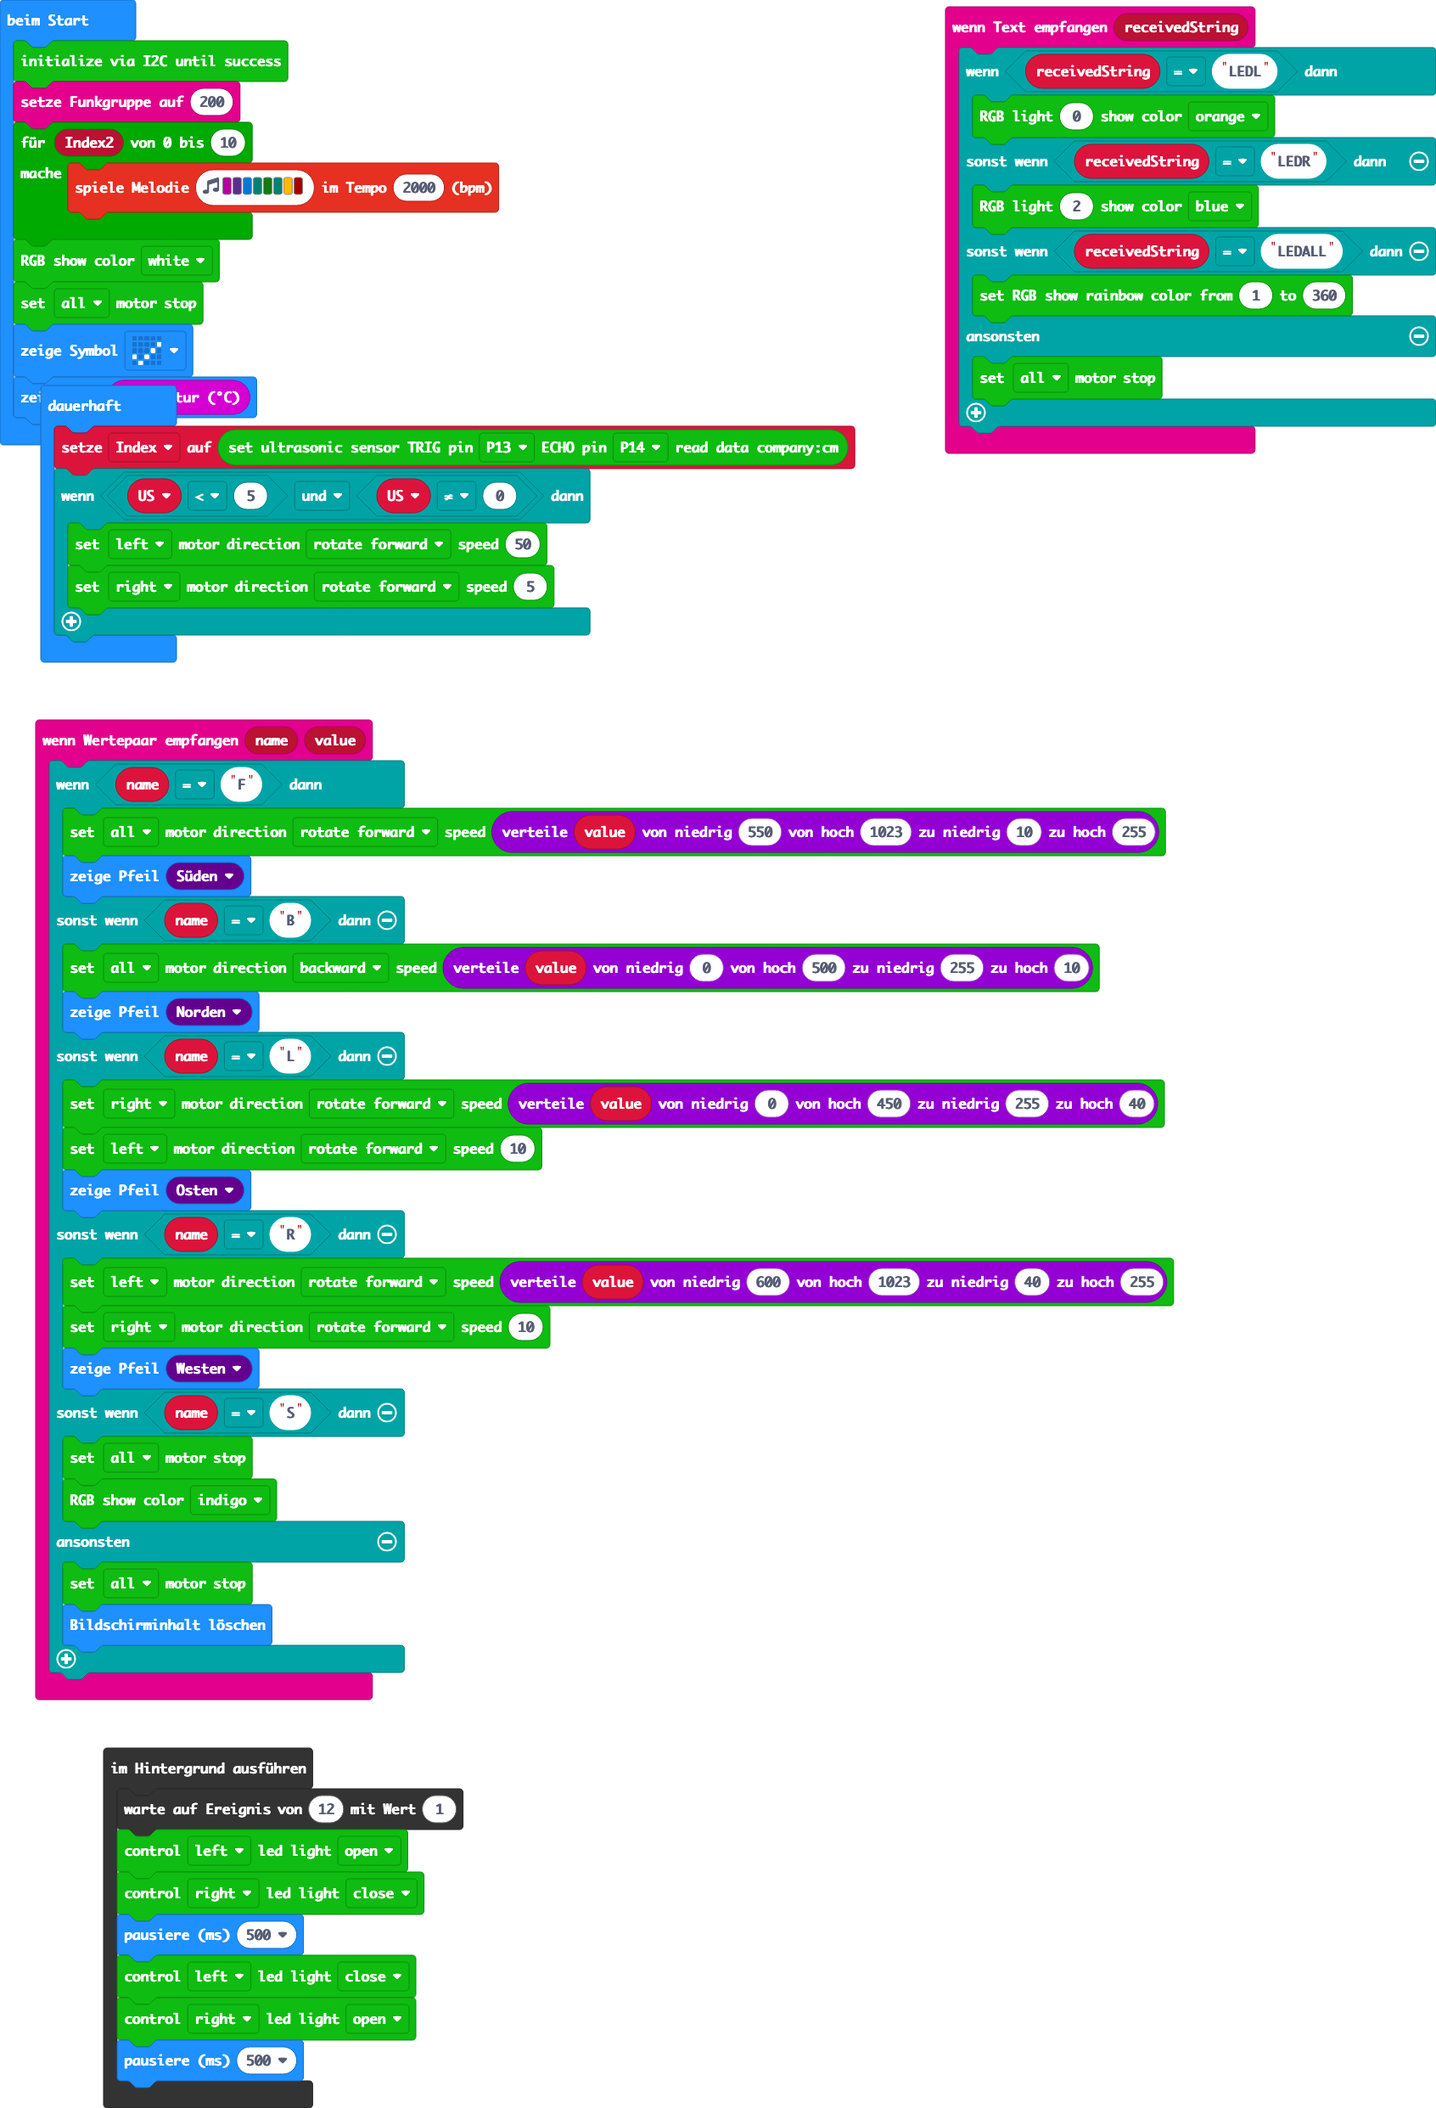
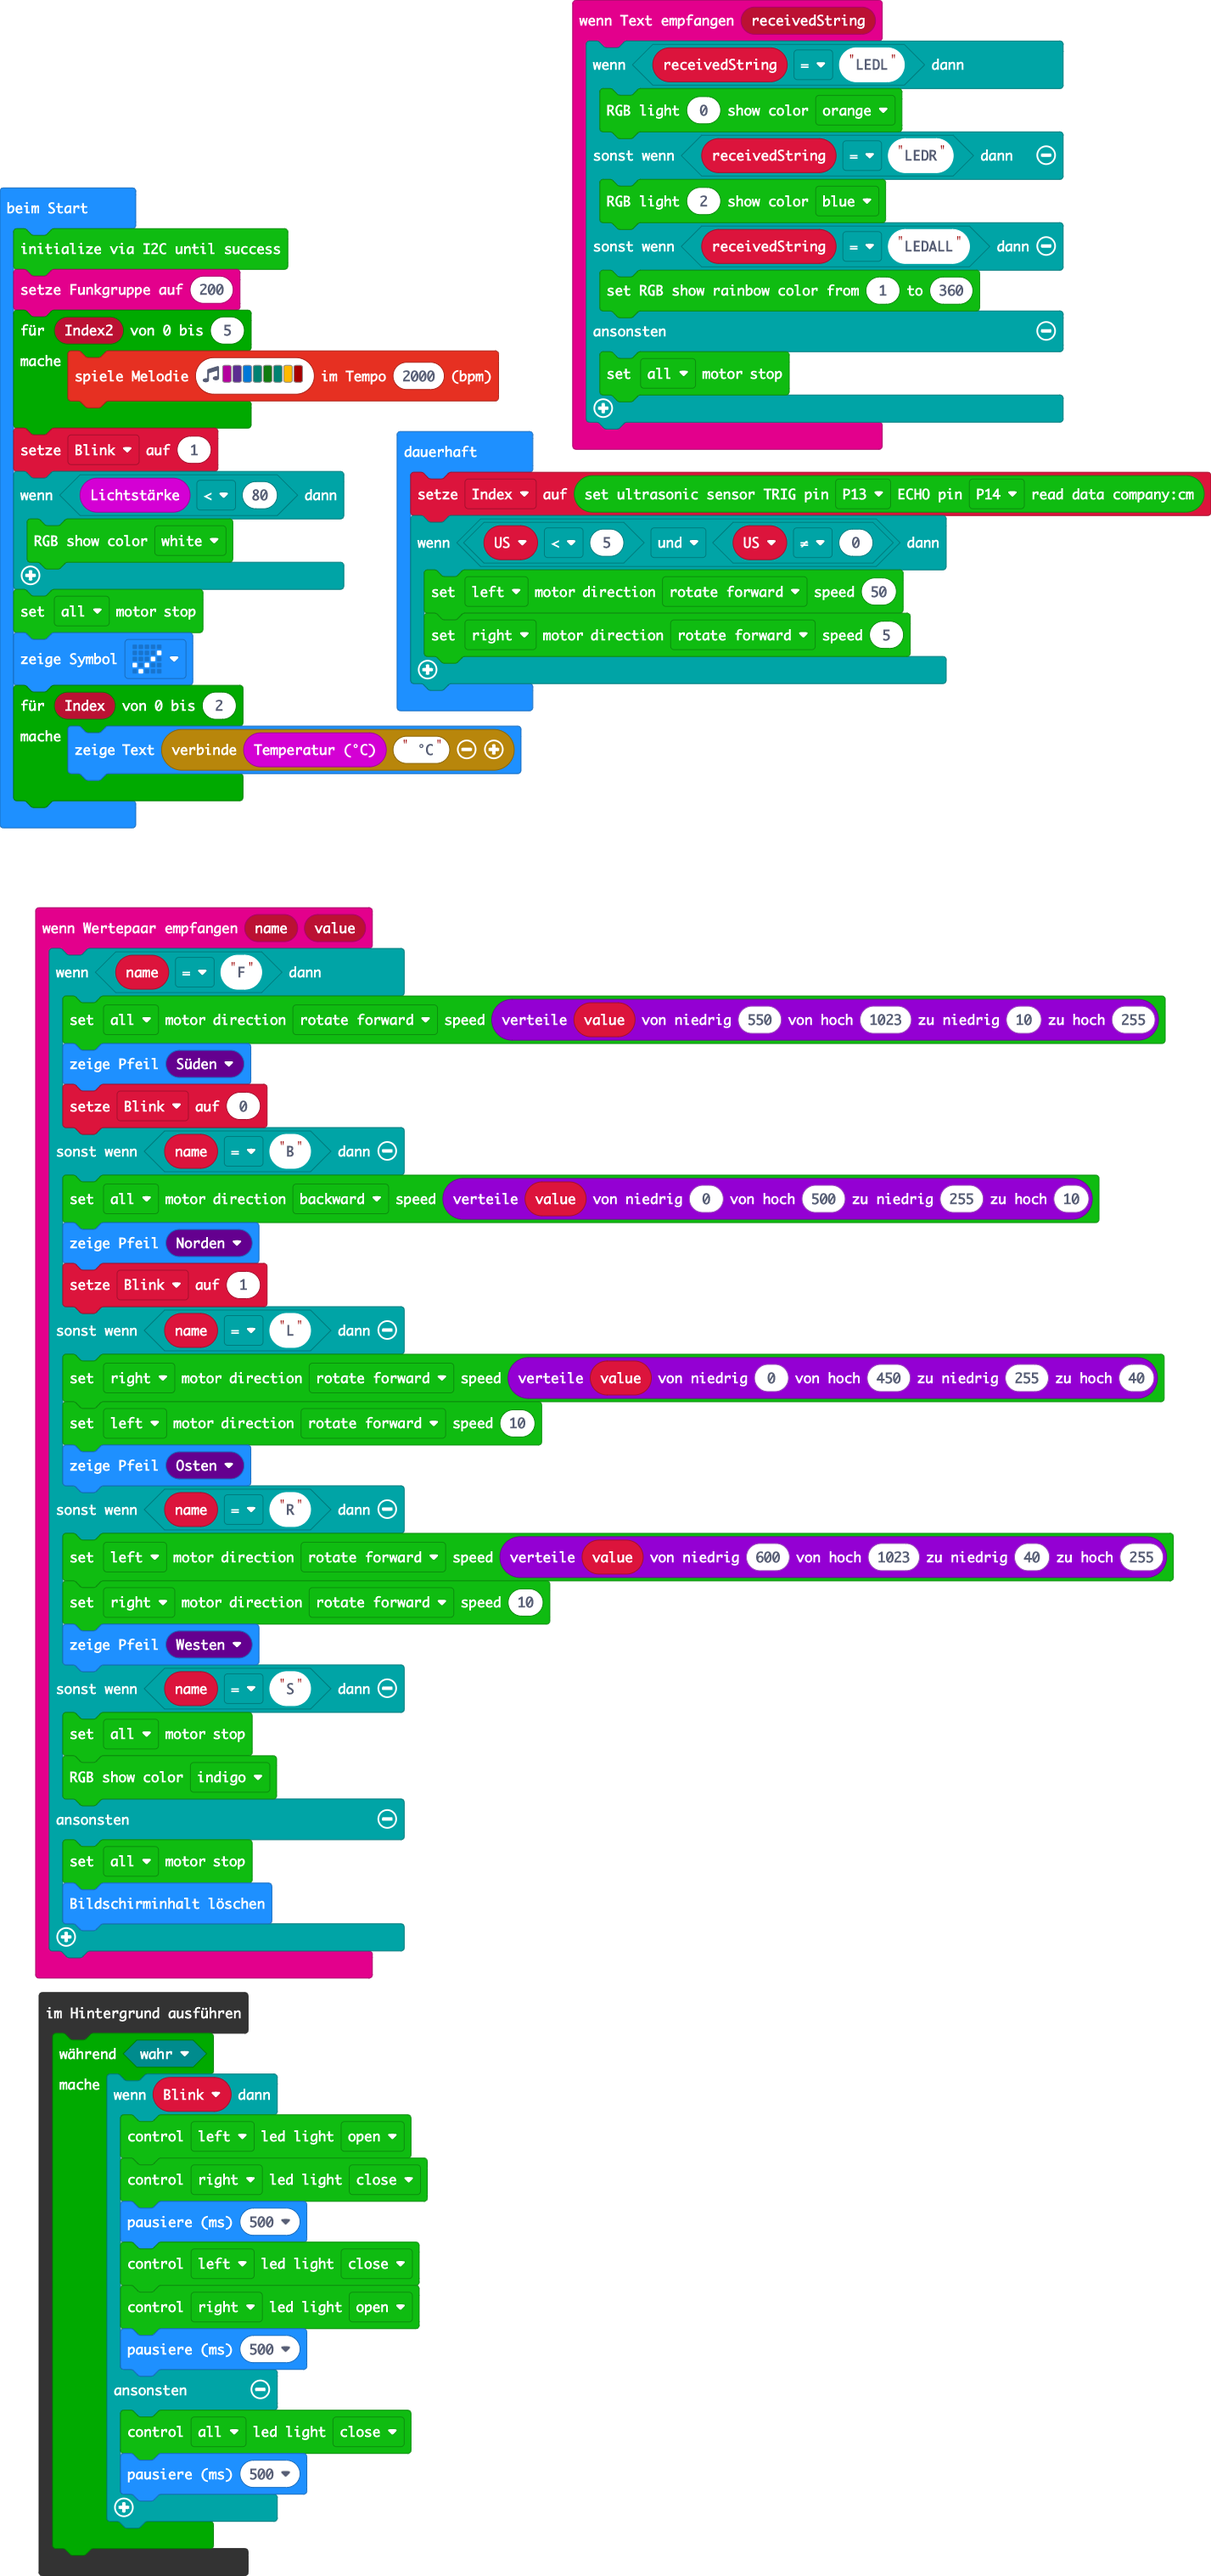
Aktualisiere pxt.json, main.blocks, main.ts, main.py

diff --git a/main.ts b/main.ts
@@ -13,9 +13,11 @@ radio.onReceivedValue(function (name, value) {
     if (name == "F") {
         DFRobotMaqueenPlusV2.controlMotor(MyEnumMotor.eAllMotor, MyEnumDir.eForward, Math.map(value, 550, 1023, 10, 255))
         basic.showArrow(ArrowNames.South)
+        Blink = 0
     } else if (name == "B") {
         DFRobotMaqueenPlusV2.controlMotor(MyEnumMotor.eAllMotor, MyEnumDir.eBackward, Math.map(value, 0, 500, 255, 10))
         basic.showArrow(ArrowNames.North)
+        Blink = 1
     } else if (name == "L") {
         DFRobotMaqueenPlusV2.controlMotor(MyEnumMotor.eRightMotor, MyEnumDir.eForward, Math.map(value, 0, 450, 255, 40))
         DFRobotMaqueenPlusV2.controlMotor(MyEnumMotor.eLeftMotor, MyEnumDir.eForward, 10)
@@ -33,15 +35,21 @@ radio.onReceivedValue(function (name, value) {
     }
 })
 let Index = 0
+let Blink = 0
 DFRobotMaqueenPlusV2.I2CInit()
 radio.setGroup(200)
-for (let Index2 = 0; Index2 <= 10; Index2++) {
+for (let Index2 = 0; Index2 <= 5; Index2++) {
     music.playMelody("C D E F G F A C5 ", 2000)
 }
-DFRobotMaqueenPlusV2.showColor(NeoPixelColors.White)
+Blink = 1
+if (input.lightLevel() < 80) {
+    DFRobotMaqueenPlusV2.showColor(NeoPixelColors.White)
+}
 DFRobotMaqueenPlusV2.controlMotorStop(MyEnumMotor.eAllMotor)
 basic.showIcon(IconNames.Yes)
-basic.showNumber(input.temperature())
+for (let Index = 0; Index <= 2; Index++) {
+    basic.showString("" + input.temperature() + " °C")
+}
 basic.forever(function () {
     let US = 0
     Index = DFRobotMaqueenPlusV2.readUltrasonic(DigitalPin.P13, DigitalPin.P14)
@@ -51,11 +59,17 @@ basic.forever(function () {
     }
 })
 control.inBackground(function () {
-    control.waitForEvent(12, 1)
-    DFRobotMaqueenPlusV2.controlLED(MyEnumLed.eLeftLed, MyEnumSwitch.eOpen)
-    DFRobotMaqueenPlusV2.controlLED(MyEnumLed.eRightLed, MyEnumSwitch.eClose)
-    basic.pause(500)
-    DFRobotMaqueenPlusV2.controlLED(MyEnumLed.eLeftLed, MyEnumSwitch.eClose)
-    DFRobotMaqueenPlusV2.controlLED(MyEnumLed.eRightLed, MyEnumSwitch.eOpen)
-    basic.pause(500)
+    while (true) {
+        if (Blink) {
+            DFRobotMaqueenPlusV2.controlLED(MyEnumLed.eLeftLed, MyEnumSwitch.eOpen)
+            DFRobotMaqueenPlusV2.controlLED(MyEnumLed.eRightLed, MyEnumSwitch.eClose)
+            basic.pause(500)
+            DFRobotMaqueenPlusV2.controlLED(MyEnumLed.eLeftLed, MyEnumSwitch.eClose)
+            DFRobotMaqueenPlusV2.controlLED(MyEnumLed.eRightLed, MyEnumSwitch.eOpen)
+            basic.pause(500)
+        } else {
+            DFRobotMaqueenPlusV2.controlLED(MyEnumLed.eAllLed, MyEnumSwitch.eClose)
+            basic.pause(500)
+        }
+    }
 })

diff --git a/main.py b/main.py
@@ -1,0 +1,81 @@
+def on_received_string(receivedString):
+    if receivedString == "LEDL":
+        DFRobotMaqueenPlusV2.set_index_color(0, NeoPixelColors.ORANGE)
+    elif receivedString == "LEDR":
+        DFRobotMaqueenPlusV2.set_index_color(2, NeoPixelColors.BLUE)
+    elif receivedString == "LEDALL":
+        DFRobotMaqueenPlusV2.led_rainbow(1, 360)
+    else:
+        DFRobotMaqueenPlusV2.control_motor_stop(MyEnumMotor.E_ALL_MOTOR)
+radio.on_received_string(on_received_string)
+
+def on_received_value(name, value):
+    global Blink
+    if name == "F":
+        DFRobotMaqueenPlusV2.control_motor(MyEnumMotor.E_ALL_MOTOR,
+            MyEnumDir.E_FORWARD,
+            Math.map(value, 550, 1023, 10, 255))
+        basic.show_arrow(ArrowNames.SOUTH)
+        Blink = 0
+    elif name == "B":
+        DFRobotMaqueenPlusV2.control_motor(MyEnumMotor.E_ALL_MOTOR,
+            MyEnumDir.E_BACKWARD,
+            Math.map(value, 0, 500, 255, 10))
+        basic.show_arrow(ArrowNames.NORTH)
+        Blink = 1
+    elif name == "L":
+        DFRobotMaqueenPlusV2.control_motor(MyEnumMotor.E_RIGHT_MOTOR,
+            MyEnumDir.E_FORWARD,
+            Math.map(value, 0, 450, 255, 40))
+        DFRobotMaqueenPlusV2.control_motor(MyEnumMotor.E_LEFT_MOTOR, MyEnumDir.E_FORWARD, 10)
+        basic.show_arrow(ArrowNames.EAST)
+    elif name == "R":
+        DFRobotMaqueenPlusV2.control_motor(MyEnumMotor.E_LEFT_MOTOR,
+            MyEnumDir.E_FORWARD,
+            Math.map(value, 600, 1023, 40, 255))
+        DFRobotMaqueenPlusV2.control_motor(MyEnumMotor.E_RIGHT_MOTOR, MyEnumDir.E_FORWARD, 10)
+        basic.show_arrow(ArrowNames.WEST)
+    elif name == "S":
+        DFRobotMaqueenPlusV2.control_motor_stop(MyEnumMotor.E_ALL_MOTOR)
+        DFRobotMaqueenPlusV2.show_color(NeoPixelColors.INDIGO)
+    else:
+        DFRobotMaqueenPlusV2.control_motor_stop(MyEnumMotor.E_ALL_MOTOR)
+        basic.clear_screen()
+radio.on_received_value(on_received_value)
+
+Index = 0
+Blink = 0
+DFRobotMaqueenPlusV2.i2c_init()
+radio.set_group(200)
+for Index2 in range(11):
+    music.play_melody("C D E F G F A C5 ", 2000)
+Blink = 1
+if input.light_level() < 100:
+    DFRobotMaqueenPlusV2.show_color(NeoPixelColors.WHITE)
+DFRobotMaqueenPlusV2.control_motor_stop(MyEnumMotor.E_ALL_MOTOR)
+basic.show_icon(IconNames.YES)
+for Index3 in range(3):
+    basic.show_string("" + str(input.temperature()) + " ˘C")
+
+def on_forever():
+    global Index
+    US = 0
+    Index = DFRobotMaqueenPlusV2.read_ultrasonic(DigitalPin.P13, DigitalPin.P14)
+    if US < 5 and US != 0:
+        DFRobotMaqueenPlusV2.control_motor(MyEnumMotor.E_LEFT_MOTOR, MyEnumDir.E_FORWARD, 50)
+        DFRobotMaqueenPlusV2.control_motor(MyEnumMotor.E_RIGHT_MOTOR, MyEnumDir.E_FORWARD, 5)
+basic.forever(on_forever)
+
+def on_in_background():
+    while True:
+        if Blink:
+            DFRobotMaqueenPlusV2.control_led(MyEnumLed.E_LEFT_LED, MyEnumSwitch.E_OPEN)
+            DFRobotMaqueenPlusV2.control_led(MyEnumLed.E_RIGHT_LED, MyEnumSwitch.E_CLOSE)
+            basic.pause(500)
+            DFRobotMaqueenPlusV2.control_led(MyEnumLed.E_LEFT_LED, MyEnumSwitch.E_CLOSE)
+            DFRobotMaqueenPlusV2.control_led(MyEnumLed.E_RIGHT_LED, MyEnumSwitch.E_OPEN)
+            basic.pause(500)
+        else:
+            DFRobotMaqueenPlusV2.control_led(MyEnumLed.E_ALL_LED, MyEnumSwitch.E_CLOSE)
+            basic.pause(500)
+control.in_background(on_in_background)
